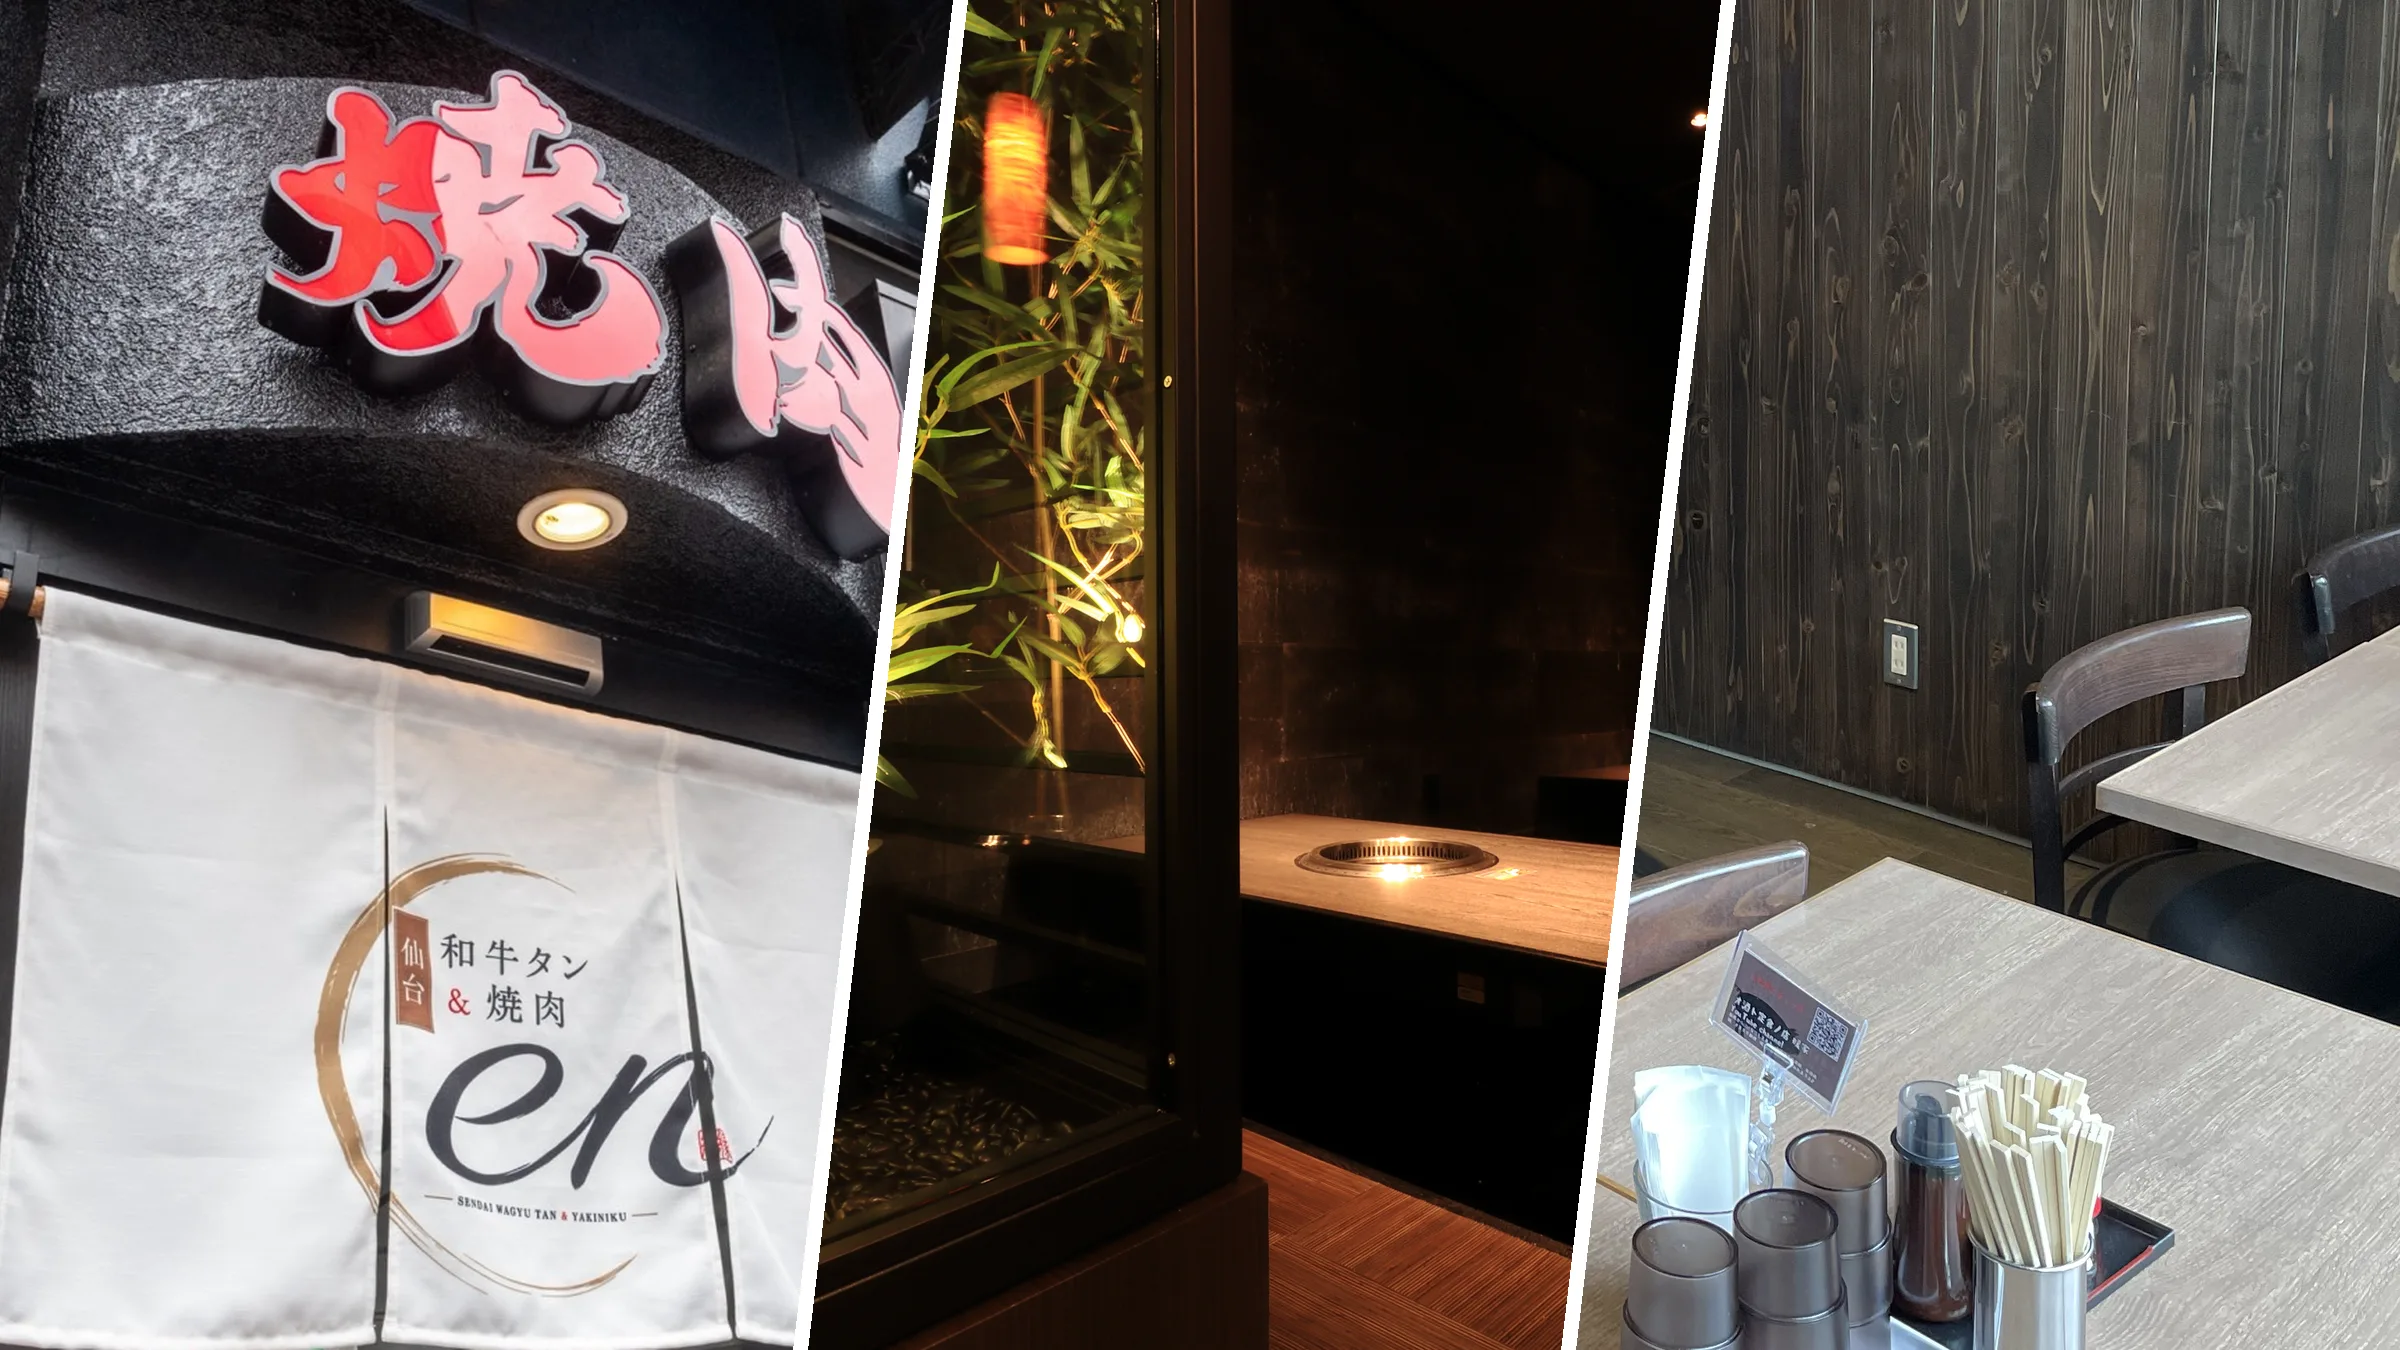
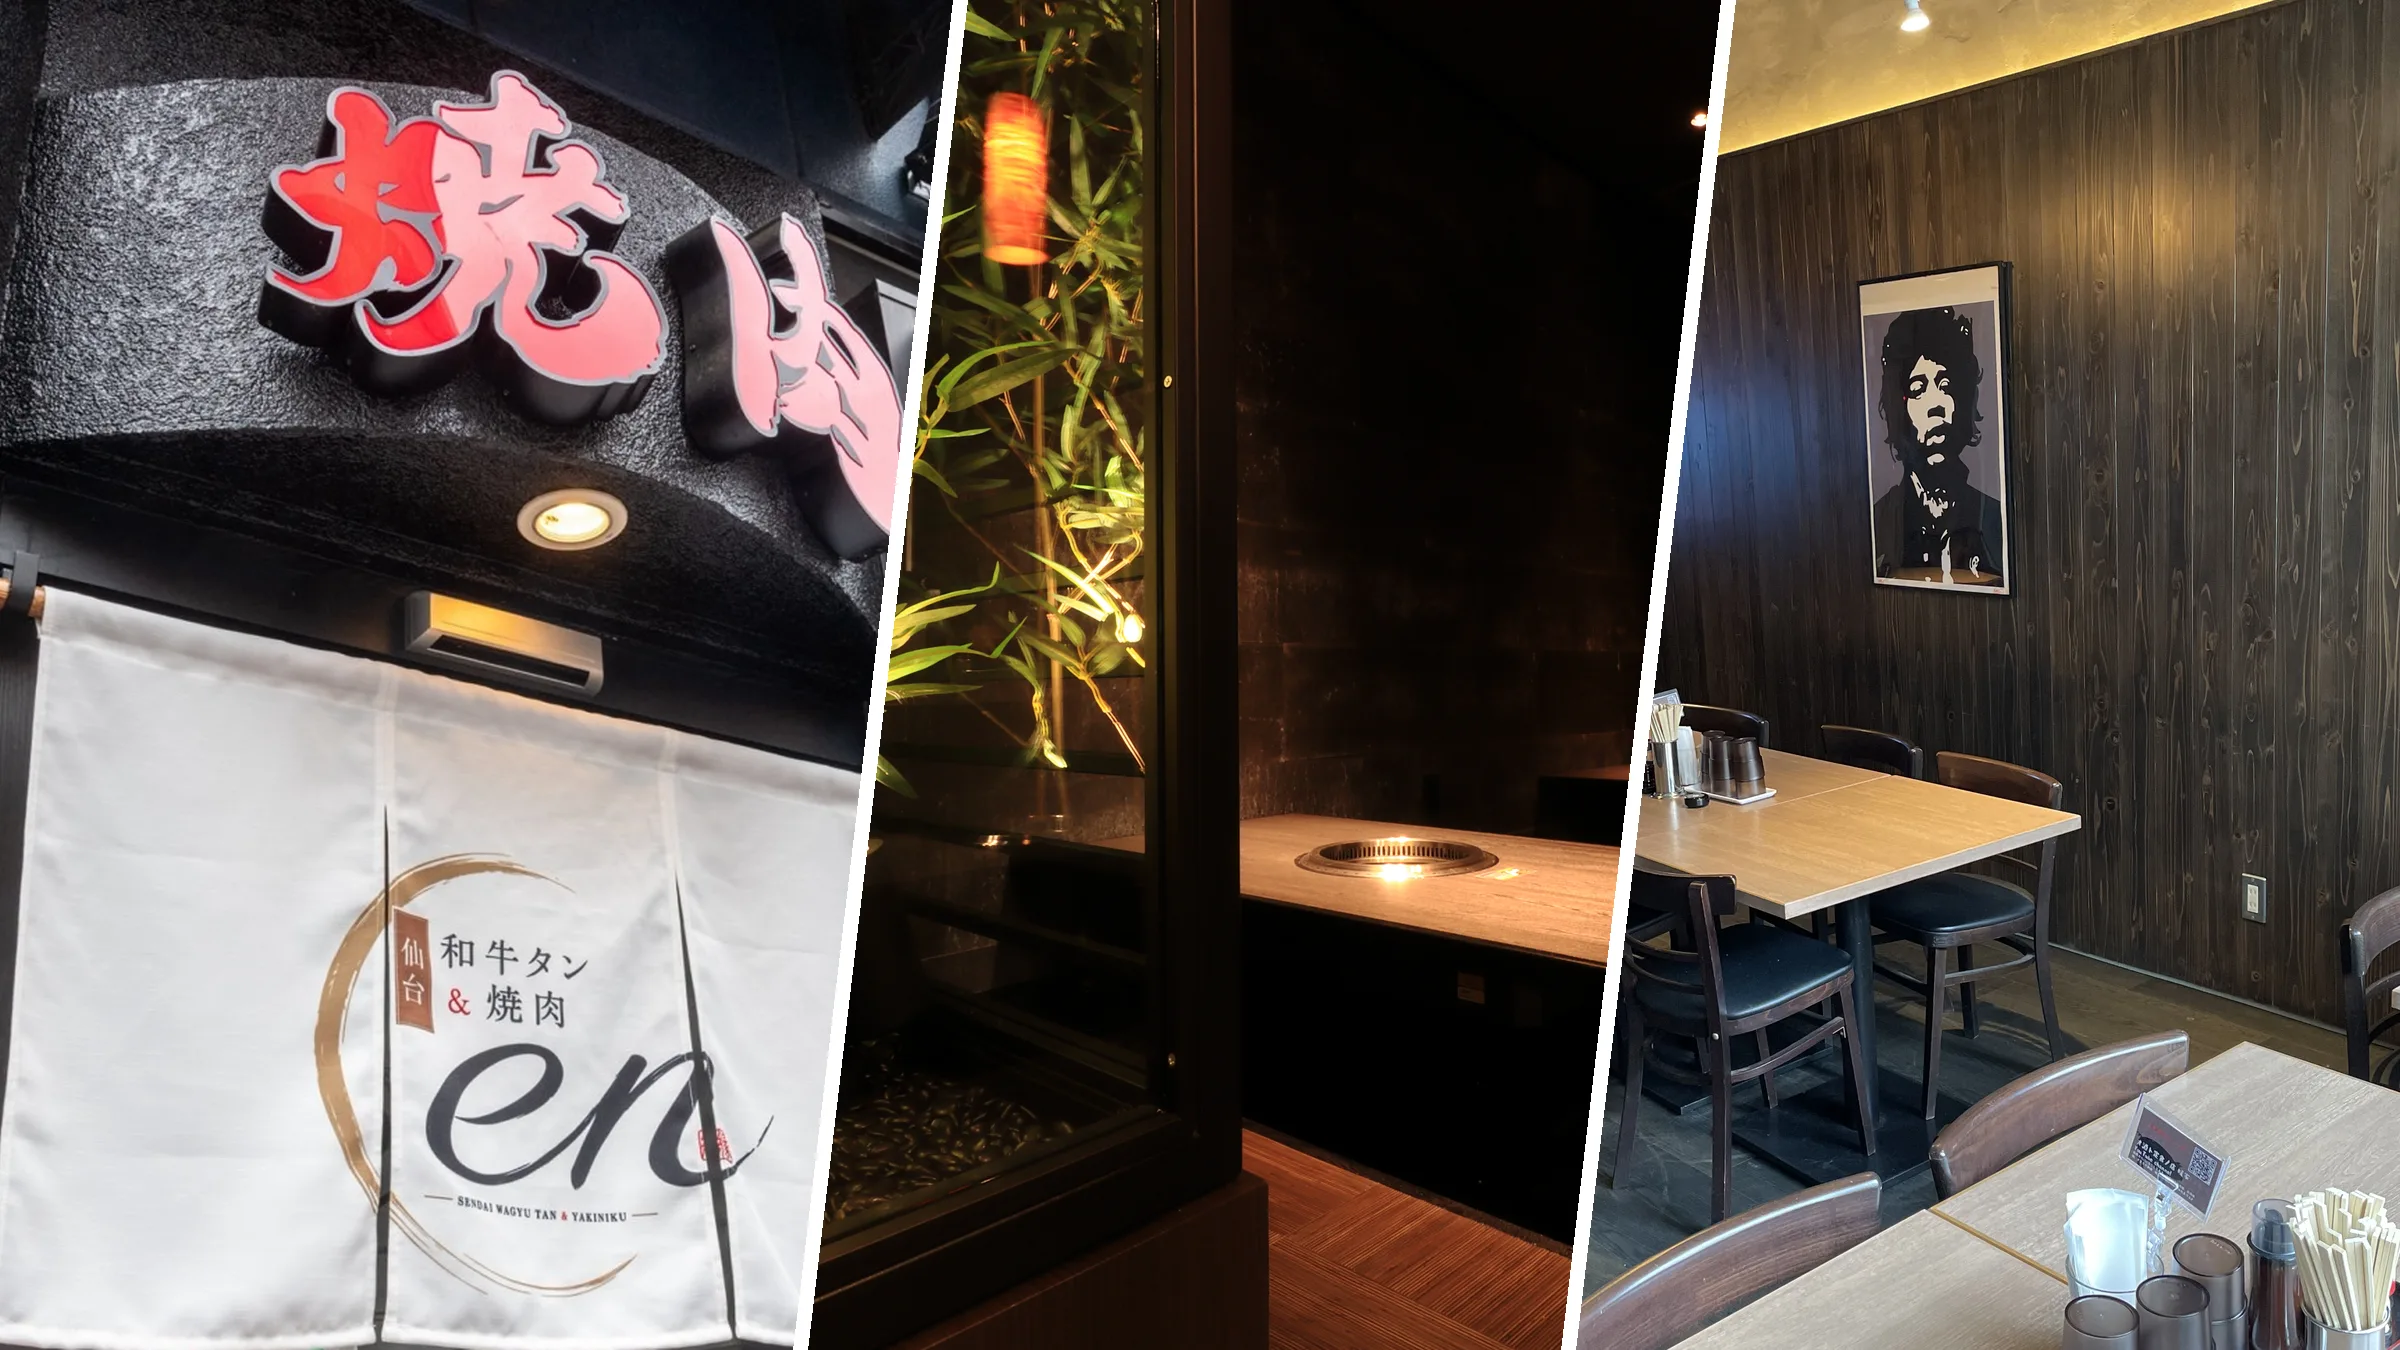
content: include Danke poster wall in dining composite
Claude-Session: https://claude.ai/code/session_01XcAWHnUX5bDS1yHYGM5rQx

Changed region(s): [[0.6562, 0.0, 1.0, 1.0]]

diff --git a/assets-pipeline/scripts/composite/dining_hero.py b/assets-pipeline/scripts/composite/dining_hero.py
@@ -15,12 +15,12 @@ W, H = 2400, 1350
 SLANT = 160   # パネル境界の傾き（上端と下端の x の差）
 GAP = 16      # パネル間の白い隙間
 
-# 暖家は肖像ポスターとテレビ画面を含まない範囲だけを使う。
+# 暖家はテレビ画面を含まない範囲を使う（店内のポスターは掲載可と確認済み）。
 # (原本, 切り出し範囲 left, top, right, bottom, 構図の中心 (x, y) 0〜1)。
 PANELS = [
     ("En/S__35217445_0.jpg", (450, 0, 1180, 970), (0.5, 0.5)),                 # 焼肉En 外観（看板と暖簾）
     ("En/2024_08_22_焼肉えん/202408220007.JPG", (1200, 300, 4500, 3900), (0.45, 0.5)),  # 焼肉En 個室（竹とテーブル）
-    ("暖家/IMG_1896.jpg", (1810, 1350, 3024, 3310), (0.5, 0.5)),                # 暖家 店内（木の壁とテーブル席）
+    ("暖家/IMG_1896.jpg", (880, 450, 2600, 3230), (0.5, 0.5)),                  # 暖家 店内（ポスターの壁・照明・テーブル席）
 ]
 # パネル境界（上端、キャンバス幅に対する比率）。外観の看板と暖簾が入るよう左を広くとる。
 SPLITS = [0.4, 0.72]
